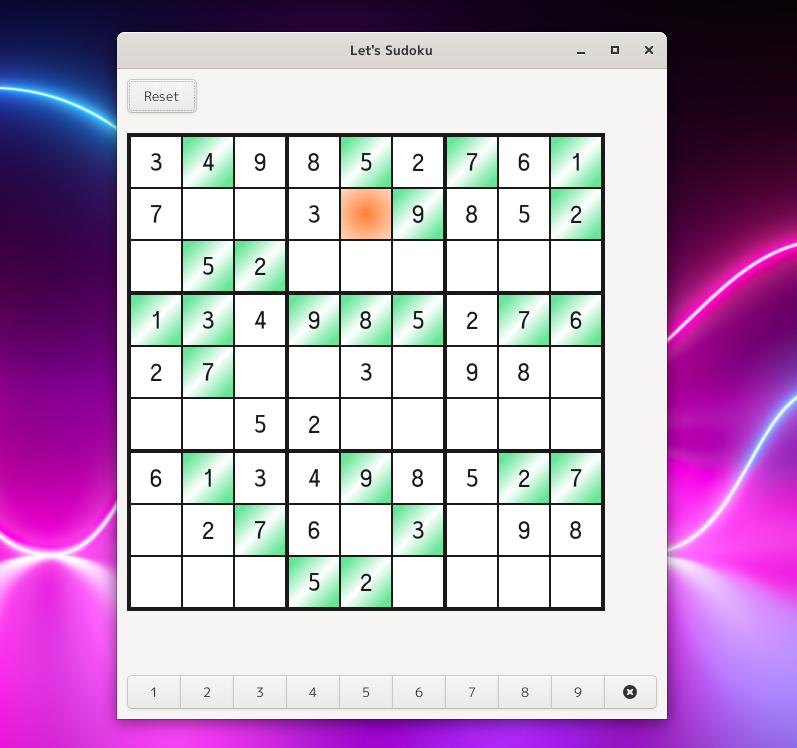
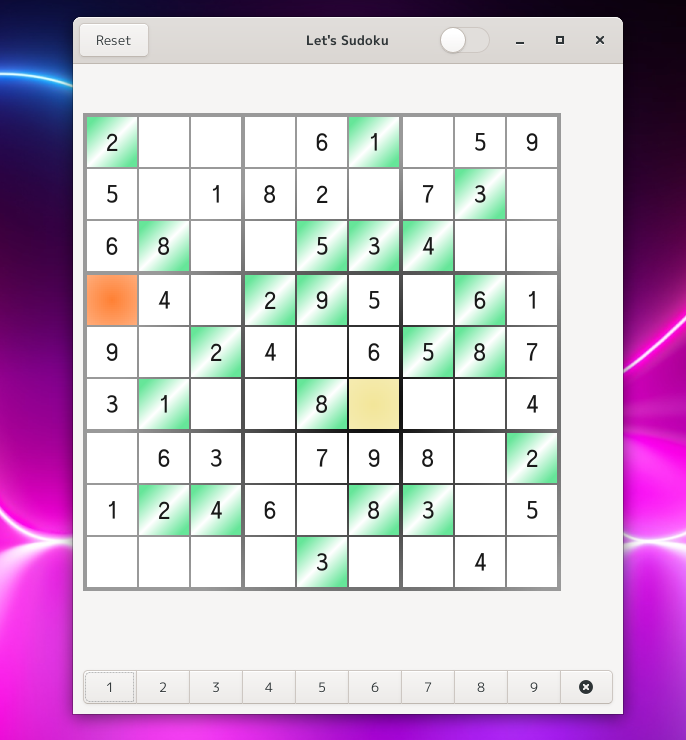
Update README.md

diff --git a/README.md b/README.md
@@ -8,15 +8,21 @@ Aho-Sudoku
 
 くれぐれも、真剣にプレイしないでください。
 
+### ダークモード
+
+ダークモードはじめました。
+
+![画像](screenshot-2.png)
+
 ### 実行ファイル
 
 ちなみに下記リンクをダウンロードすればコンパイル作業なしでプレイできます。
 実行権限をオンにして実行していただければと思います。
 
-<https://drive.google.com/file/d/1QHTxAxboADKG25W1bNAHyF1kWguOTikB/view?usp=sharing>
+<https://drive.google.com/file/d/1EmrpAaDLhhpTVBr5sgISkh4jYlsFgArN/view?usp=sharing>
 
-* MD5SUM: 92e6a767fb9fbf281239351250b50e95
-* SHA256SUM: 8c58bcb461ab8ba30d1a2b1a26b3de996f1230b50a1ed122dfdee0e1d511eb2d
+* MD5SUM: 4edf3e68261cf2b3f0fa5b59c4ca1dec
+* SHA256SUM: b4f9678f39046e1a7e3ca88f5f7a60862892afaee1747a5e435574c7191bc0ef
 
 ### 実行方法
 
